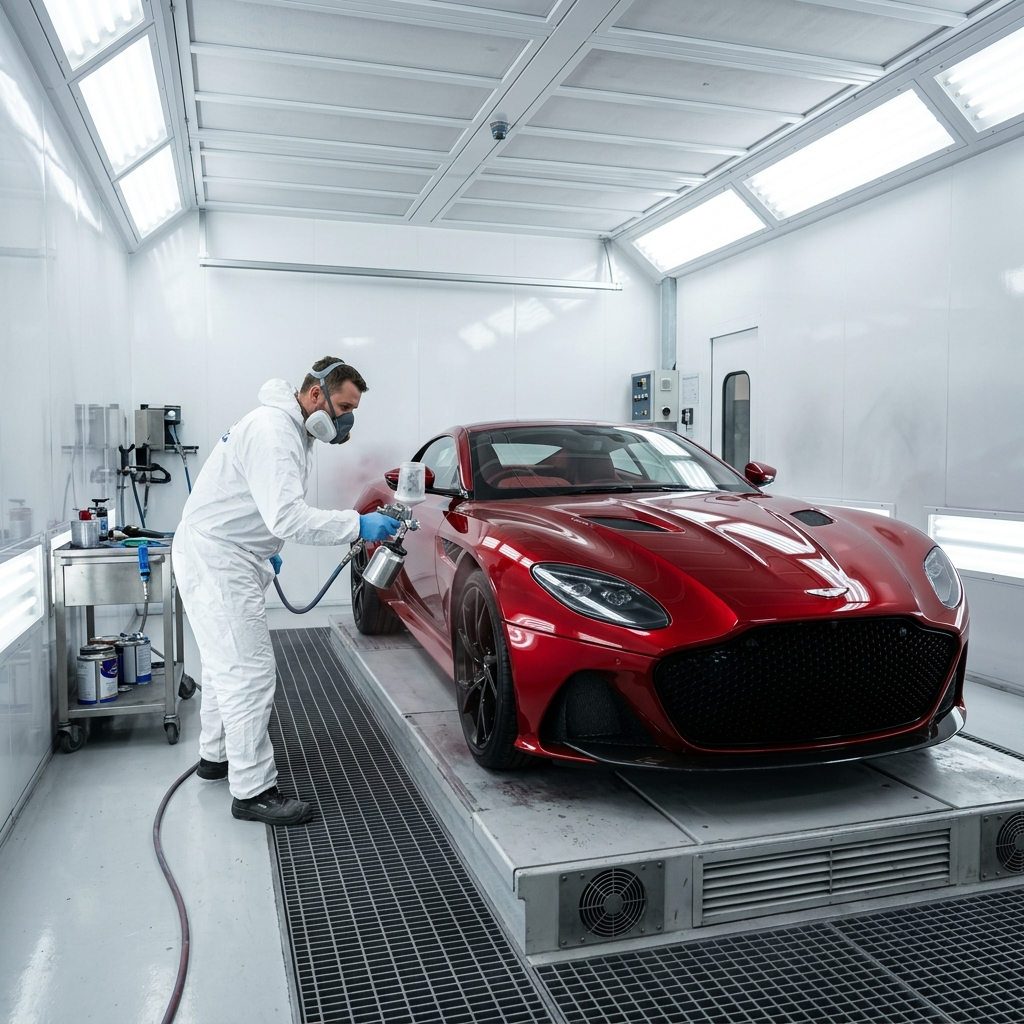
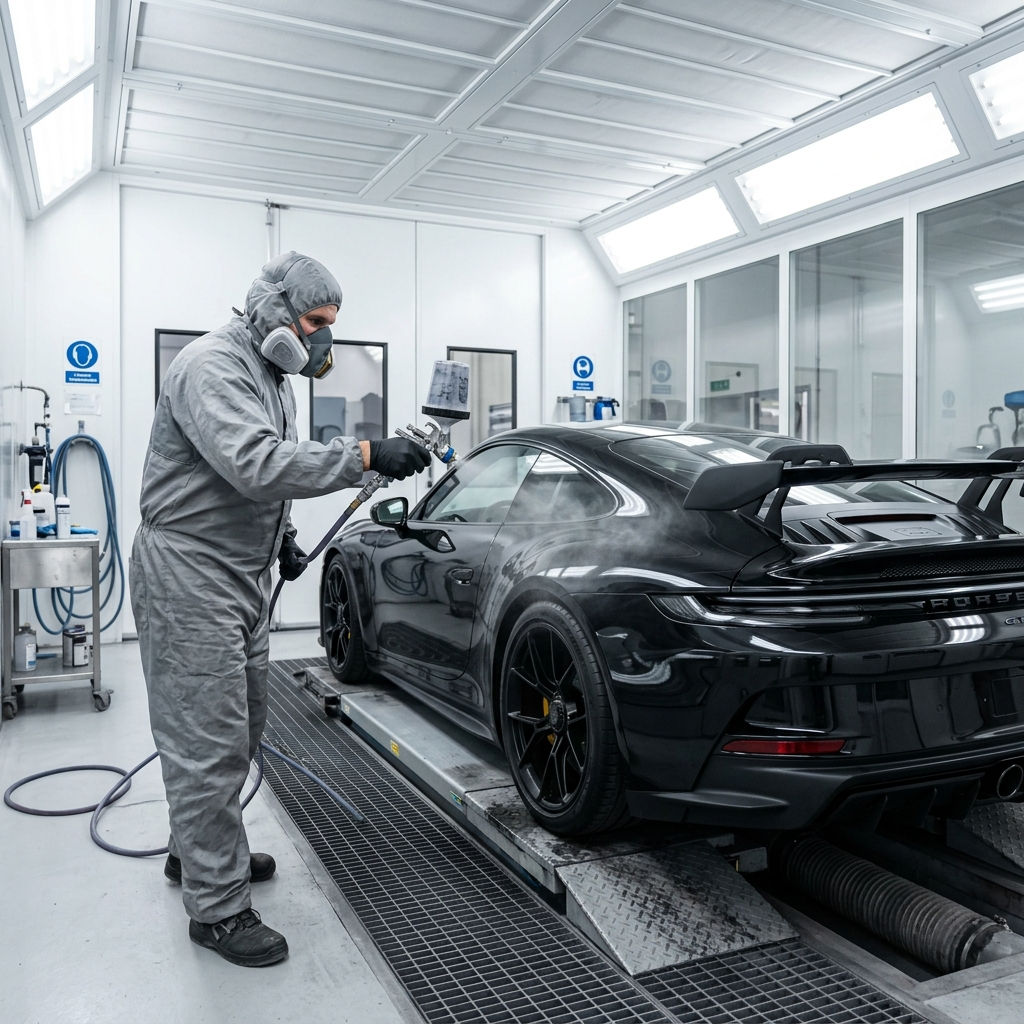
feat: upgrade UI/UX to premium design, add OG tags, and integrate hyper-realistic images

diff --git a/src/App.tsx b/src/App.tsx
@@ -4,18 +4,18 @@
  */
 
 import { motion, useScroll, useSpring } from 'motion/react';
-import { 
-  Wrench, 
-  Settings, 
-  ShieldCheck, 
-  Clock, 
-  MapPin, 
-  Phone, 
-  MessageCircle, 
-  ChevronRight, 
-  Star, 
-  CheckCircle2, 
-  Gauge, 
+import {
+  Wrench,
+  Settings,
+  ShieldCheck,
+  Clock,
+  MapPin,
+  Phone,
+  MessageCircle,
+  ChevronRight,
+  Star,
+  CheckCircle2,
+  Gauge,
   Car,
   Disc,
   ArrowRight
@@ -44,7 +44,7 @@ const Navbar = () => {
             Precision<span className="text-primary italic">Auto</span>
           </span>
         </div>
-        
+
         <div className="hidden md:flex items-center gap-8 text-sm font-medium uppercase tracking-widest text-gray-400">
           <a href="#servicos" className="hover:text-primary transition-colors">Serviços</a>
           <a href="#diferenciais" className="hover:text-primary transition-colors">Diferenciais</a>
@@ -52,9 +52,9 @@ const Navbar = () => {
           <a href="#contato" className="hover:text-primary transition-colors">Contato</a>
         </div>
 
-        <a 
-          href="https://wa.me/5511999999999" 
-          target="_blank" 
+        <a
+          href="https://wa.me/5511999999999"
+          target="_blank"
           rel="no-referrer"
           className="bg-primary hover:bg-primary/80 text-white px-6 py-2.5 rounded-sm font-bold text-sm tracking-tight transition-all active:scale-95 flex items-center gap-2"
         >
@@ -114,14 +114,14 @@ export default function App() {
         className="fixed top-0 left-0 right-0 h-1 bg-primary z-[70] origin-left"
         style={{ scaleX }}
       />
-      
+
       <Navbar />
       <WhatsAppButton />
 
       {/* Hero Section */}
       <section className="relative min-h-screen flex items-center pt-20 technical-grid">
         <div className="absolute inset-0 bg-gradient-to-br from-dark-bg via-dark-bg/95 to-primary/10 z-0" />
-        
+
         <div className="max-w-7xl mx-auto px-6 grid grid-cols-1 lg:grid-cols-2 gap-12 relative z-10">
           <motion.div
             initial={{ opacity: 0, x: -50 }}
@@ -132,20 +132,20 @@ export default function App() {
               <div className="w-2 h-2 rounded-full bg-primary animate-pulse" />
               <span className="text-primary text-[10px] font-bold tracking-widest uppercase">Tecnologia de Ponta & Alta Performance</span>
             </div>
-            
+
             <h1 className="font-display text-6xl md:text-8xl font-black tracking-tighter uppercase leading-[0.85] mb-8 italic">
               SEU CARRO<br />
               <span className="text-primary not-italic">NO ÁPICE</span><br />
               DA PERFORMANCE
             </h1>
-            
+
             <p className="text-gray-400 text-lg md:text-xl max-w-xl mb-10 font-medium leading-relaxed">
               Mecânica especializada, alinhamento 3D e tecnologia avançada para quem não aceita menos que a perfeição técnica.
             </p>
-            
+
             <div className="flex flex-col sm:flex-row gap-4">
-              <a 
-                href="#agendar" 
+              <a
+                href="#agendar"
                 className="bg-primary hover:bg-neutral-100 hover:text-dark-bg text-white px-8 py-4 rounded-sm font-black tracking-tighter uppercase text-lg transition-all flex items-center justify-center gap-3 active:scale-95 shadow-[0_0_40px_rgba(196,30,58,0.3)]"
               >
                 AGENDAR AGORA <ChevronRight size={20} />
@@ -159,7 +159,7 @@ export default function App() {
               </div>
             </div>
           </motion.div>
-          
+
           <motion.div
             initial={{ opacity: 0, scale: 0.9 }}
             animate={{ opacity: 1, scale: 1 }}
@@ -168,9 +168,9 @@ export default function App() {
           >
             <div className="relative w-full aspect-square max-w-lg">
               <div className="absolute inset-0 bg-primary/20 rounded-full blur-[100px] animate-pulse" />
-              <img 
-                src="/images/hero.png" 
-                alt="Automotive Engine" 
+              <img
+                src="/images/hero.png"
+                alt="Automotive Engine"
                 className="w-full h-full object-cover rounded-2xl relative z-10 border border-line grayscale hover:grayscale-0 transition-all duration-700 shadow-2xl"
               />
               <div className="absolute -bottom-6 -left-6 z-20 bg-dark-bg border border-line p-6 rounded-sm shadow-2xl">
@@ -187,11 +187,11 @@ export default function App() {
       {/* Services Grid */}
       <section id="servicos" className="py-24 bg-dark-bg">
         <div className="max-w-7xl mx-auto px-6">
-          <SectionHeading 
-            subtitle="Expertise Técnica" 
-            title="Nossos Serviços de Elite" 
+          <SectionHeading
+            subtitle="Expertise Técnica"
+            title="Nossos Serviços de Elite"
           />
-          
+
           <div className="grid grid-cols-1 md:grid-cols-2 lg:grid-cols-3 gap-6">
             {[
               { icon: <Gauge size={32} />, title: "Mecânica de Alta Precisão", desc: "Diagnóstico computadorizado de última geração para motores nacionais e importados.", img: "/images/diagnostics.png" },
@@ -210,15 +210,15 @@ export default function App() {
                 className="group relative h-[400px] overflow-hidden rounded-sm border border-line glass-card hover:border-primary/50 transition-all duration-500"
               >
                 <div className="absolute inset-0 z-0">
-                  <img 
-                    src={service.img} 
-                    alt={service.title} 
-                    className="w-full h-full object-cover opacity-30 group-hover:opacity-50 group-hover:scale-110 transition-all duration-700" 
+                  <img
+                    src={service.img}
+                    alt={service.title}
+                    className="w-full h-full object-cover opacity-30 group-hover:opacity-50 group-hover:scale-110 transition-all duration-700"
                     referrerPolicy="no-referrer"
                   />
                   <div className="absolute inset-0 bg-gradient-to-t from-dark-bg via-dark-bg/60 to-transparent" />
                 </div>
-                
+
                 <div className="absolute inset-0 z-10 p-8 flex flex-col justify-end">
                   <div className="text-primary mb-4 p-3 bg-primary/10 w-fit rounded-sm group-hover:scale-110 transition-transform">
                     {service.icon}
@@ -244,7 +244,7 @@ export default function App() {
         <div className="absolute top-0 right-0 w-1/2 h-full bg-primary/5 -skew-x-12 translate-x-1/2 z-0" />
         <div className="max-w-7xl mx-auto px-6 relative z-10">
           <SectionHeading subtitle="Por que Nós?" title="O Padrão de Ouro Automotivo" />
-          
+
           <div className="grid grid-cols-1 lg:grid-cols-4 gap-12">
             {[
               { icon: <Clock size={40} />, title: "Agilidade Total", desc: "Processos otimizados para entregar seu carro o mais rápido possível." },
@@ -252,7 +252,7 @@ export default function App() {
               { icon: <Settings size={40} />, title: "Alta Tecnologia", desc: "Equipamentos que você só encontra em concessionárias premium." },
               { icon: <Star size={40} />, title: "Time Elite", desc: "Profissionais certificados e em constante treinamento técnico." },
             ].map((d, i) => (
-              <motion.div 
+              <motion.div
                 key={i}
                 initial={{ opacity: 0, x: 20 }}
                 whileInView={{ opacity: 1, x: 0 }}
@@ -280,7 +280,7 @@ export default function App() {
               <p className="text-gray-400 mb-8">Mais de 5.000 clientes satisfeitos e veículos prontos para a estrada com segurança máxima.</p>
               <div className="flex items-center gap-4">
                 <div className="flex -space-x-4">
-                  {[1,2,3,4].map(i => (
+                  {[1, 2, 3, 4].map(i => (
                     <div key={i} className="w-12 h-12 rounded-full border-2 border-dark-bg bg-surface overflow-hidden">
                       <img src={`/images/customer_${i}.png`} alt="Avatar" />
                     </div>
@@ -292,7 +292,7 @@ export default function App() {
                 </div>
               </div>
             </div>
-            
+
             <div className="lg:col-span-2 grid grid-cols-1 md:grid-cols-2 gap-6">
               {[
                 { name: "Ricardo Santos", role: "Proprietário BMW X3", text: "Profissionalismo de concessionária com preço justo. O alinhamento 3D mudou a estabilidade do carro." },
@@ -300,7 +300,7 @@ export default function App() {
               ].map((t, i) => (
                 <div key={i} className="p-8 glass-card border-line rounded-sm relative">
                   <div className="flex gap-1 mb-6">
-                    {[1,2,3,4,5].map(s => <Star key={s} size={14} className="fill-primary text-primary" />)}
+                    {[1, 2, 3, 4, 5].map(s => <Star key={s} size={14} className="fill-primary text-primary" />)}
                   </div>
                   <p className="text-gray-300 italic mb-8 leading-relaxed">"{t.text}"</p>
                   <div>
@@ -322,7 +322,7 @@ export default function App() {
             SEU CARRO PRONTO<br />EM <span className="text-primary not-italic">4 PASSOS</span>
           </h2>
         </div>
-        
+
         <div className="max-w-5xl mx-auto px-6 grid grid-cols-1 md:grid-cols-4 gap-8">
           {[
             { step: "01", title: "Contato", desc: "Nos chame no WhatsApp agora." },
@@ -345,7 +345,7 @@ export default function App() {
             </div>
           ))}
         </div>
-        
+
         <div className="mt-16 text-center">
           <motion.button
             whileHover={{ scale: 1.05 }}
@@ -372,7 +372,7 @@ export default function App() {
                   <p className="text-xl font-medium">Av. das Nações Unidas, 12.345<br />São Paulo - SP, 04578-000</p>
                 </div>
               </div>
-              
+
               <div className="grid grid-cols-2 gap-8 pt-8 border-t border-line">
                 <div>
                   <h5 className="font-bold uppercase tracking-widest text-xs text-primary mb-4 flex items-center gap-2">
@@ -395,12 +395,12 @@ export default function App() {
                 </div>
               </div>
             </div>
-            
+
             <button className="mt-12 w-full bg-white text-dark-bg hover:bg-primary hover:text-white px-8 py-4 rounded-sm font-black tracking-tighter uppercase transition-all flex items-center justify-center gap-3">
               COMO CHEGAR <MapPin size={20} />
             </button>
           </div>
-          
+
           <div className="w-full h-[500px] bg-line rounded-sm overflow-hidden relative border border-line grayscale">
             {/* Fake Map with UI elements to feel real */}
             <div className="absolute inset-0 bg-[url('/images/hero.png')] bg-cover opacity-40" />
@@ -427,11 +427,11 @@ export default function App() {
               Precision<span className="italic">Auto</span>
             </span>
           </div>
-          
+
           <div className="text-gray-600 text-[10px] font-bold uppercase tracking-widest text-center">
             © 2026 PRECISIONAUTO CENTRO AUTOMOTIVO - TODOS OS DIREITOS RESERVADOS
           </div>
-          
+
           <div className="flex gap-6">
             {['Instagram', 'Facebook', 'LinkedIn'].map(s => (
               <a key={s} href="#" className="text-gray-500 hover:text-primary transition-colors text-[10px] font-black uppercase tracking-widest">{s}</a>

diff --git a/index.html b/index.html
@@ -5,6 +5,20 @@
     <meta name="viewport" content="width=device-width, initial-scale=1.0" />
     <title>PrecisionAuto | Centro Automotivo Premium</title>
     <meta name="description" content="PrecisionAuto - Mecânica de alta precisão, alinhamento 3D e tecnologia avançada para veículos nacionais e importados em São Paulo." />
+    
+    <!-- Open Graph / Facebook -->
+    <meta property="og:type" content="website" />
+    <meta property="og:url" content="https://precisionauto.vercel.app/" />
+    <meta property="og:title" content="PrecisionAuto | Centro Automotivo Premium" />
+    <meta property="og:description" content="Mecânica especializada, alinhamento 3D e tecnologia avançada para veículos que exigem perfeição absoluta." />
+    <meta property="og:image" content="https://precisionauto.vercel.app/images/hero.png" />
+
+    <!-- Twitter -->
+    <meta property="twitter:card" content="summary_large_image" />
+    <meta property="twitter:url" content="https://precisionauto.vercel.app/" />
+    <meta property="twitter:title" content="PrecisionAuto | Centro Automotivo Premium" />
+    <meta property="twitter:description" content="Mecânica especializada, alinhamento 3D e tecnologia avançada para veículos que exigem perfeição absoluta." />
+    <meta property="twitter:image" content="https://precisionauto.vercel.app/images/hero.png" />
   </head>
   <body>
     <div id="root"></div>

diff --git a/src/index.css b/src/index.css
@@ -12,22 +12,34 @@
 }
 
 @layer base {
+  html {
+    scroll-behavior: smooth;
+  }
   body {
-    @apply bg-dark-bg text-white font-sans antialiased;
+    @apply bg-dark-bg text-white font-sans antialiased selection:bg-primary selection:text-white;
   }
 }
 
 .technical-grid {
   background-image: 
-    linear-gradient(to right, #1F1F1F 1px, transparent 1px),
-    linear-gradient(to bottom, #1F1F1F 1px, transparent 1px);
-  background-size: 40px 40px;
+    linear-gradient(to right, rgba(255, 255, 255, 0.03) 1px, transparent 1px),
+    linear-gradient(to bottom, rgba(255, 255, 255, 0.03) 1px, transparent 1px);
+  background-size: 60px 60px;
 }
 
 .glass-card {
-  @apply bg-surface/80 backdrop-blur-md border border-line;
+  @apply bg-surface/40 backdrop-blur-2xl border border-white/5;
 }
 
 .text-glow {
-  text-shadow: 0 0 15px rgba(196, 30, 58, 0.4);
+  text-shadow: 0 0 30px rgba(196, 30, 58, 0.6);
+}
+
+@keyframes float {
+  0%, 100% { transform: translateY(0); }
+  50% { transform: translateY(-10px); }
+}
+
+.animate-float {
+  animation: float 4s ease-in-out infinite;
 }
